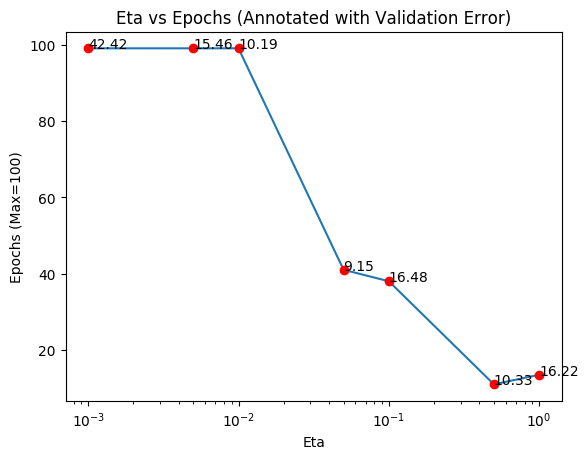
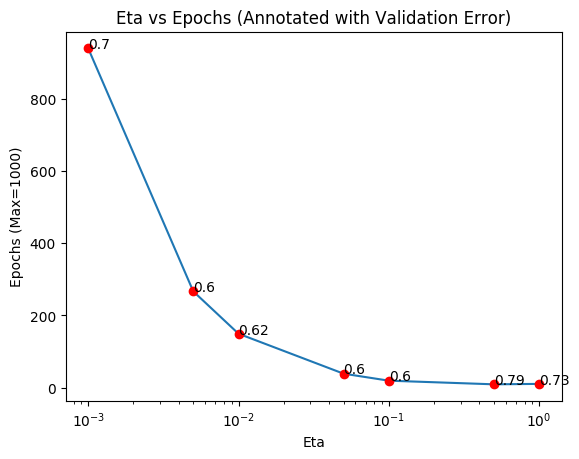
3.2 done

diff --git a/lab2/_3_2.py b/lab2/_3_2.py
@@ -17,7 +17,7 @@ def findBestParams(
     training_method,
     apply_noise=True,
     randomize_rbfs=False,
-    max_epochs=100,
+    max_epochs=1000,
     hidden_range=np.arange(2, 41),
     var_range=np.round(np.arange(0.2, 1.2, 0.2), 2),
     eta=0.01,
@@ -30,7 +30,7 @@ def findBestParams(
 
     for run in range(num_runs):
 
-        print ("run", run)
+        # print ("run", run)
 
         y, y_val = getNoisy(np.array([y, y_val])) if apply_noise else (y, y_val)
 
@@ -108,17 +108,17 @@ if __name__ == "__main__":
     # plt.savefig("pictures/3_2_parameter_map_batch_square.png", bbox_inches='tight')
     # plt.clf()
 
-    dat = findBestParams(X, Y_SIN, X_VAL, Y_SIN_VAL, "train_delta_batch")
-    plt.savefig("pictures/3_2_parameter_map_delta_sin.png", bbox_inches="tight")
-    plt.clf()
-    dat = findBestParams(X, Y_SQUARE, X_VAL, Y_SQUARE_VAL, "train_delta_batch")
-    plt.savefig("pictures/3_2_parameter_map_delta_square.png", bbox_inches="tight")
-    plt.clf()
+    # dat = findBestParams(X, Y_SIN, X_VAL, Y_SIN_VAL, "train_delta_batch")
+    # plt.savefig("pictures/3_2_parameter_map_delta_sin.png", bbox_inches="tight")
+    # plt.clf()
+    # dat = findBestParams(X, Y_SQUARE, X_VAL, Y_SQUARE_VAL, "train_delta_batch")
+    # plt.savefig("pictures/3_2_parameter_map_delta_square.png", bbox_inches="tight")
+    # plt.clf()
 
-    exit()
+    # exit()
 
 
-    # 3.2.2 Use best params to find rate of convergence
+    # # 3.2.2 Use best params to find rate of convergence
     # etas = [0.001,0.005,0.01,0.05,0.1,0.5,1]
     # errors = []
     # epss = []
@@ -128,41 +128,52 @@ if __name__ == "__main__":
     #     errors.append(error)
     #     epss.append(eps)
 
-    # # plt.clf()
+    # plt.clf()
     # plt.plot(etas, epss)
     # plt.plot(etas, epss, "ro")
     # plt.xscale("log")
-    # plt.ylabel("Epochs (Max=100)")
+    # plt.ylabel("Epochs (Max=1000)")
     # plt.xlabel("Eta")
     # for et, ep, err in zip(etas, epss, errors):
     #     plt.annotate(f'{np.round(err,2)}', xy=(et,ep))
     # plt.title("Eta vs Epochs (Annotated with Validation Error)")
     # plt.savefig("pictures/3_2_eta_v_ep.png", bbox_inches="tight")
 
-    # 3.2.4 Random positioning of rbf nodes
+    # exit()
+
+
+    # # 3.2.4 Random positioning of rbf nodes
     # dat = findBestParams(X, Y_SIN, X_VAL, Y_SIN_VAL, "train_batch", randomize_rbfs=True)
     # plt.savefig("pictures/3_2_parameter_map_batch_sin_random.png", bbox_inches='tight')
     # plt.clf()
     # dat = findBestParams(X, Y_SIN, X_VAL, Y_SQUARE_VAL, "train_batch", randomize_rbfs=True)
     # plt.savefig("pictures/3_2_parameter_map_batch_square_random.png", bbox_inches='tight')
 
+    # exit()
+
     # 3.2.5 Test Against Clean Data
-    # error,_,_,_ = findBestParams(X, Y_SIN, X_VAL, Y_SIN_VAL, "train_batch", apply_noise=False, hidden_range=[9], var_range=[.4])
-    # print (" & ".join(["sin","batch","9",".4", str(error), "\\\\"]))
-    # error,_,_,_ = findBestParams(X, Y_SIN, X_VAL, Y_SQUARE_VAL, "train_batch", apply_noise=False, hidden_range=[25], var_range=[.4])
-    # print (" & ".join(["square","batch","25",".4", str(error), "\\\\"]))
-    # error,_,_,_ = findBestParams(X, Y_SIN, X_VAL, Y_SIN_VAL, "train_delta_batch", apply_noise=False, hidden_range=[12], var_range=[.2])
-    # print (" & ".join(["sin","delta","12",".2", str(error), "\\\\"]))
-    # error,_,_,_ = findBestParams(X, Y_SIN, X_VAL, Y_SQUARE_VAL, "train_delta_batch", apply_noise=False, hidden_range=[15], var_range=[.2])
-    # print (" & ".join(["square","delta","15",".2", str(error), "\\\\"]))
+    # h, v = 7, .4
+    # error,_,_,_ = findBestParams(X, Y_SIN, X_VAL, Y_SIN_VAL, "train_batch", apply_noise=False, hidden_range=[h], var_range=[v])
+    # print (" & ".join(["sin","batch",f"{h}",f"{v}", f"{error:.6f}", "\\\\"]))
+    # h, v = 13, .4
+    # error,_,_,_ = findBestParams(X, Y_SQUARE, X_VAL, Y_SQUARE_VAL, "train_batch", apply_noise=False, hidden_range=[h], var_range=[v])
+    # print (" & ".join(["square","batch",f"{h}",f"{v}", f"{error:.6f}", "\\\\"]))
+    # h, v = 12, .2
+    # error,_,_,_ = findBestParams(X, Y_SIN, X_VAL, Y_SIN_VAL, "train_delta_batch", apply_noise=False, hidden_range=[h], var_range=[v])
+    # print (" & ".join(["sin","delta",f"{h}",f"{v}", f"{error:.6f}", "\\\\"]))
+    # h, v = 5, .6
+    # error,_,_,_ = findBestParams(X, Y_SQUARE, X_VAL, Y_SQUARE_VAL, "train_delta_batch", apply_noise=False, hidden_range=[h], var_range=[v])
+    # print (" & ".join(["square","delta",f"{h}",f"{v}", f"{error:.6f}", "\\\\"]))
+
+    # exit()
 
     # 3.2.6 VS MLP
     from sklearn.neural_network import MLPRegressor
     from sklearn.metrics import mean_squared_error
 
     for name, y, y_val, rbfs_units, rbfs_var in [
-        ("sin", Y_SIN, Y_SIN_VAL, 9, 0.4),
-        ("square", Y_SQUARE, Y_SQUARE_VAL, 25, 0.4),
+        ("sin", Y_SIN, Y_SIN_VAL, 7, 0.4),
+        ("square", Y_SQUARE, Y_SQUARE_VAL, 13, 0.4),
     ]:
 
         y, y_val = getNoisy(np.array([y, y_val]))
@@ -184,7 +195,7 @@ if __name__ == "__main__":
         n.fit(X.reshape(-1, 1), y)
         pred = n.predict(X_VAL.reshape(-1, 1))
         mse = mean_squared_error(y_val, pred)
-        plt.plot(X_VAL, pred, label=f"MLP (10 Hidden) ({name}) mse={mse}")
+        plt.plot(X_VAL, pred, label=f"MLP (10 Hidden) ({name}) mse={mse:.6f}")
 
         # RBF
         n = RBF_NET(np.arange(0, 2 * np.pi, 2 * np.pi / rbfs_units), rbfs_var)
@@ -194,9 +205,9 @@ if __name__ == "__main__":
         plt.plot(
             X_VAL,
             pred,
-            label=f"RBF (units={rbfs_units},var={rbfs_var}) ({name}) mse={mse}",
+            label=f"RBF (units={rbfs_units},var={rbfs_var}) ({name}) mse={mse:.6f}",
         )
 
     plt.title("Regressor Performance\n")
     plt.legend()
-    plt.show()
+    plt.savefig("pictures/rbf_vs_mlp.png", bbox_inches='tight')

diff --git a/lab2/_3_1.py b/lab2/_3_1.py
@@ -13,8 +13,6 @@ X_VAL = np.arange(0.05, 2 * np.pi, 0.1)[:,np.newaxis]
 Y_SIN_VAL = np.sin(2 * X_VAL)
 Y_SQUARE_VAL = sign(np.sin(2 * X_VAL))
 
-print (Y_SIN.shape)
-
 
 def repeat2D(A, rep):
     return np.repeat(A, rep).reshape(len(A), rep)
